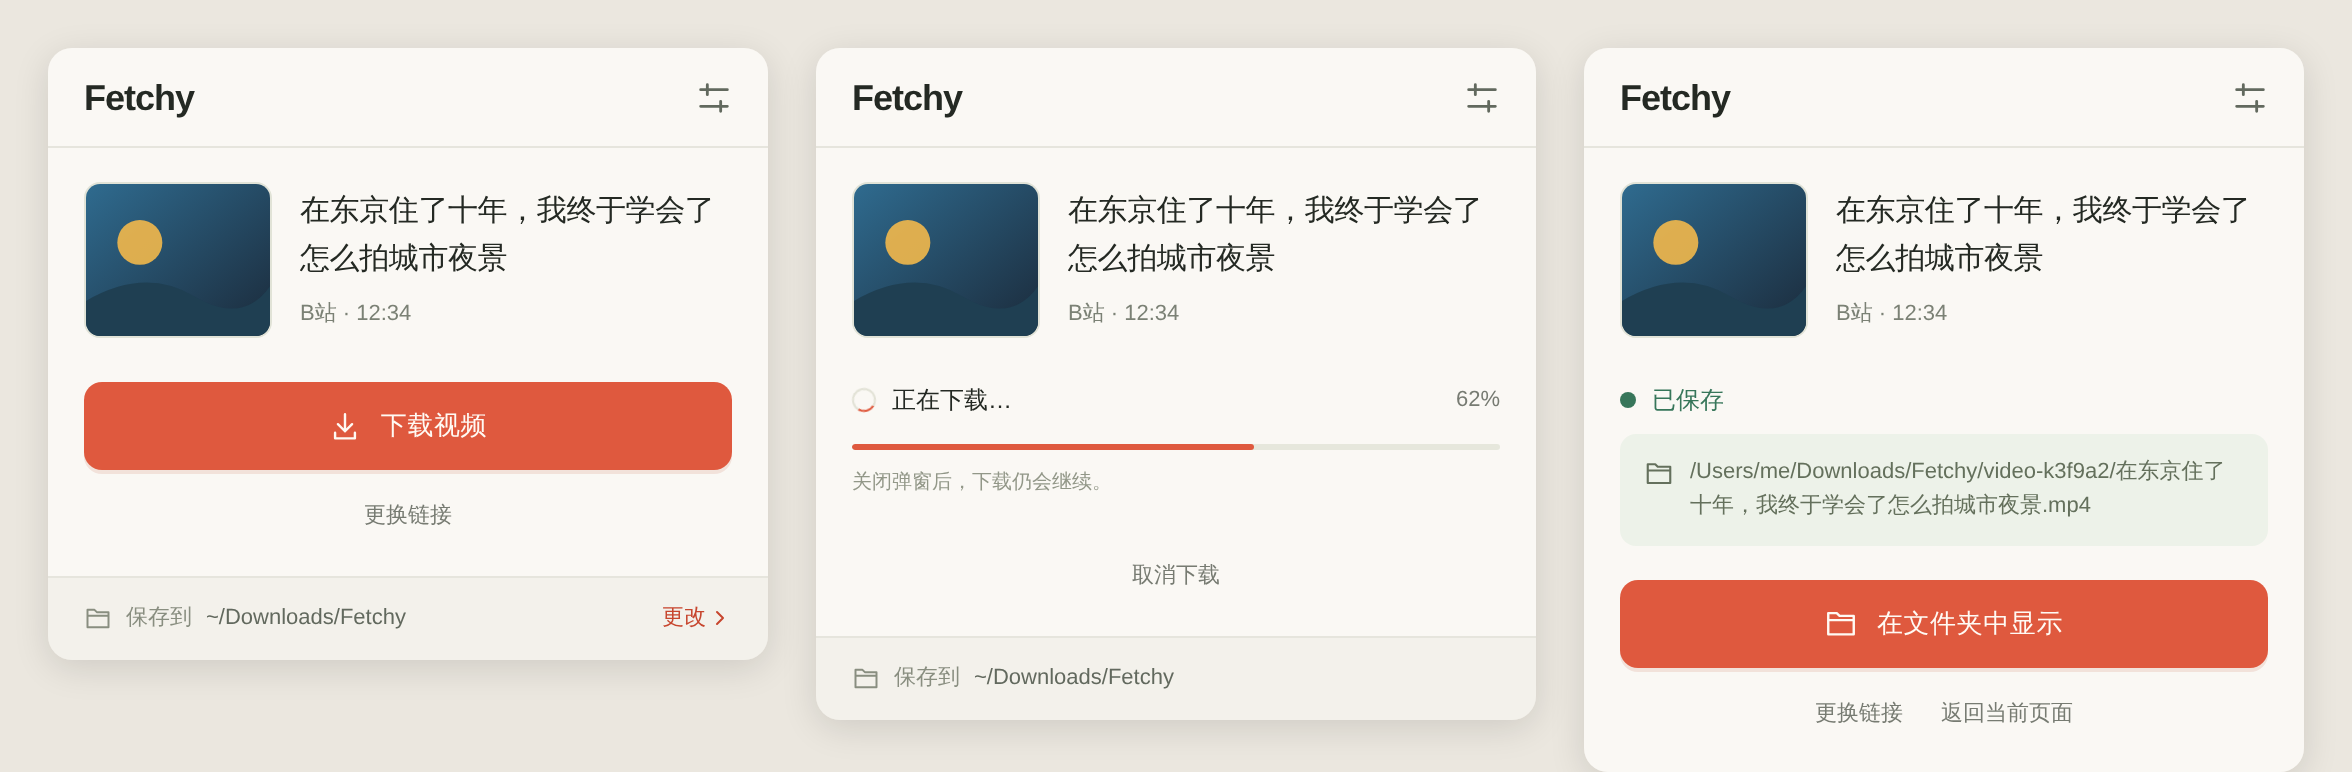
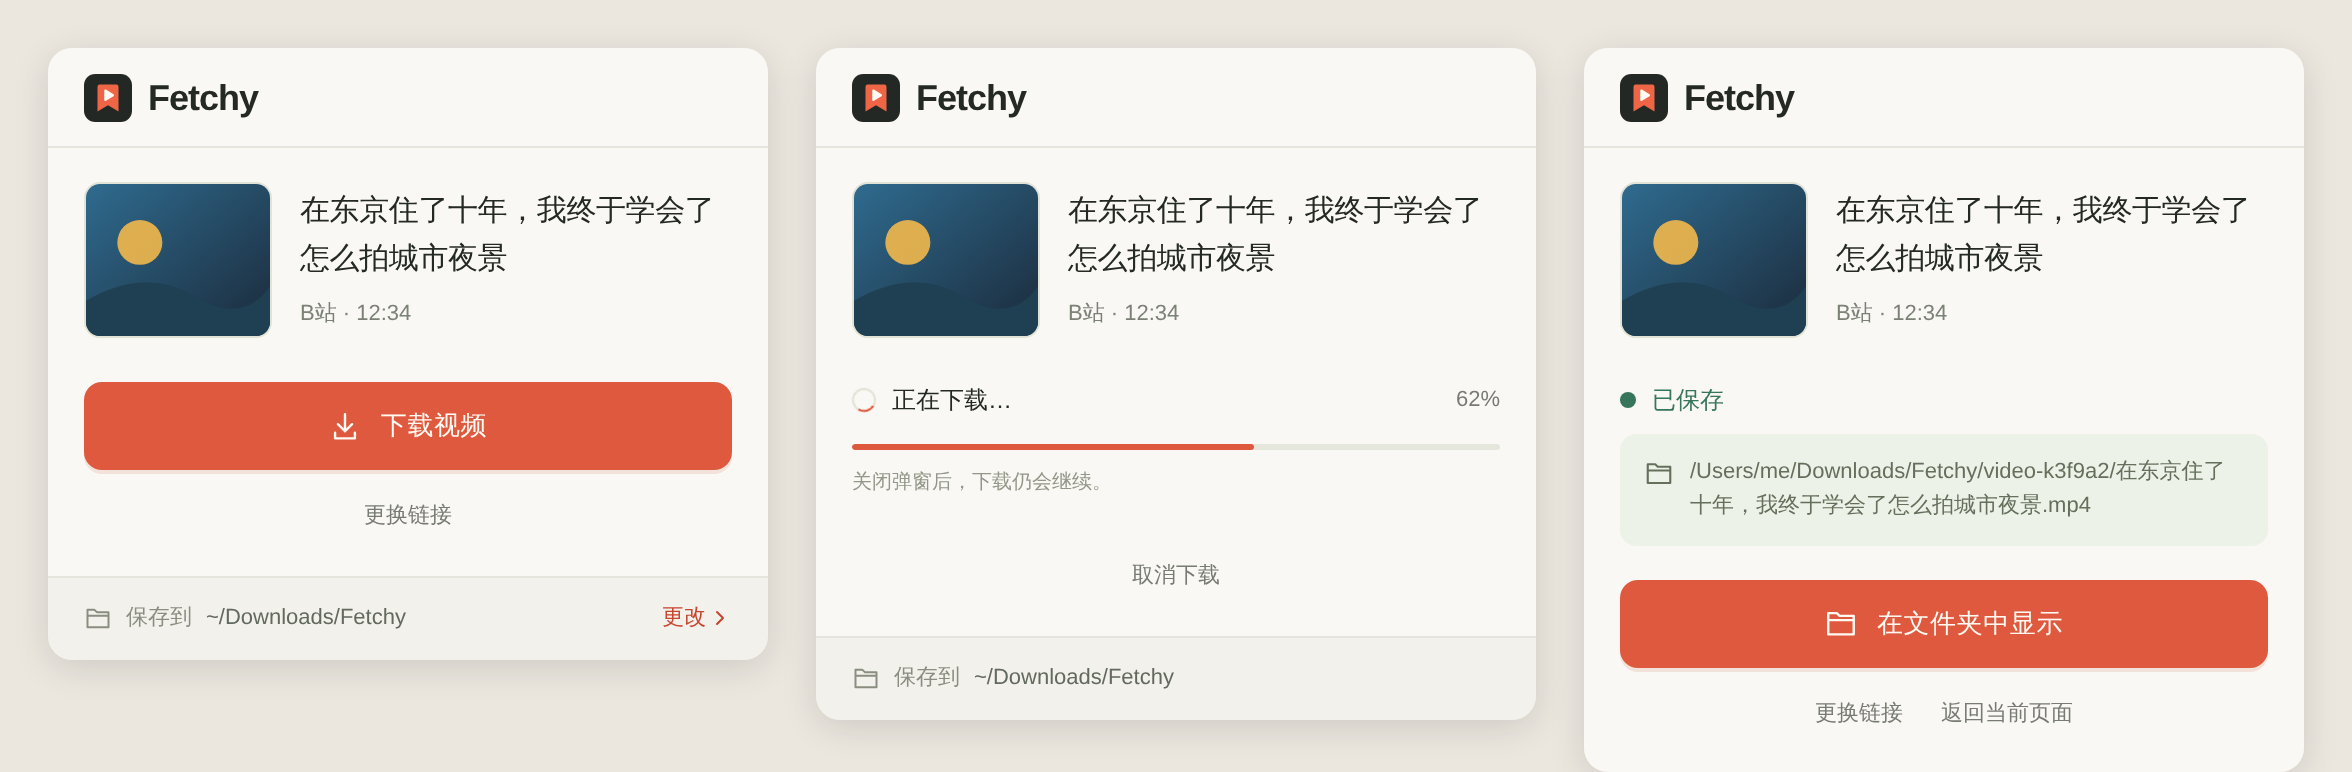
feat(extension): show brand mark and drop the settings button
The footer now switches the save folder directly, so the header gear
only duplicated it. The header shows the bookmark mark beside the
wordmark instead.

Claude-Session: https://claude.ai/code/session_01ATnmjt7XK5A6kHaesUTvsQ

Changed region(s): [[0.6828, 0.0933, 0.7759, 0.1554], [0.3414, 0.0933, 0.4345, 0.1554], [0.031, 0.0933, 0.1241, 0.1554]]

diff --git a/extension/popup.html b/extension/popup.html
@@ -10,11 +10,25 @@
 	</head>
 	<body>
 		<svg class="icon-library" xmlns="http://www.w3.org/2000/svg" aria-hidden="true">
+			<symbol id="i-logo" viewBox="0 0 128 128">
+				<rect width="128" height="128" rx="30" fill="#232825" stroke="none" />
+				<path
+					d="M42 28h44a6 6 0 0 1 6 6v66l-28-17-28 17V34a6 6 0 0 1 6-6z"
+					fill="#ef6646"
+					stroke="none"
+				/>
+				<path
+					d="M57 44l20 12.5-20 12.5z"
+					fill="#fffaf4"
+					stroke="#fffaf4"
+					stroke-width="6"
+					stroke-linejoin="round"
+				/>
+			</symbol>
 			<symbol id="i-download" viewBox="0 0 24 24">
 				<path d="M12 3v12m-5-5 5 5 5-5M5 16v4h14v-4" />
 			</symbol>
 			<symbol id="i-folder" viewBox="0 0 24 24"><path d="M3 7V5h6l2 2h10v13H3V7Zm0 3h18" /></symbol>
-			<symbol id="i-settings" viewBox="0 0 24 24"><path d="M4 7h16M4 17h16M8 4v6m8 4v6" /></symbol>
 			<symbol id="i-back" viewBox="0 0 24 24"><path d="m14 5-7 7 7 7M7 12h13" /></symbol>
 			<symbol id="i-retry" viewBox="0 0 24 24">
 				<path d="M20 10a8 8 0 1 0-1.8 7M20 4v6h-6" />
@@ -26,16 +40,10 @@
 
 		<div class="shell">
 			<header class="topbar">
-				<span class="wordmark">Fetchy</span>
-				<button
-					id="settings-button"
-					class="icon-button"
-					type="button"
-					title="目录设置"
-					aria-label="目录设置"
-				>
-					<svg aria-hidden="true"><use href="#i-settings" /></svg>
-				</button>
+				<div class="brand">
+					<svg class="brand-mark" aria-hidden="true"><use href="#i-logo" /></svg
+					><span class="wordmark">Fetchy</span>
+				</div>
 				<button id="back-button" class="text-button back-button" type="button" hidden>
 					<svg aria-hidden="true"><use href="#i-back" /></svg>返回
 				</button>

diff --git a/extension/popup.css b/extension/popup.css
@@ -109,26 +109,21 @@ svg {
 	padding: 0 10px 0 18px;
 	border-bottom: 1px solid var(--line);
 }
+.brand {
+	display: flex;
+	align-items: center;
+	gap: 8px;
+}
+.brand-mark {
+	width: 24px;
+	height: 24px;
+}
 .wordmark {
 	font-family: 'Avenir Next', 'Trebuchet MS', sans-serif;
 	font-size: 18px;
 	line-height: 1;
 	font-weight: 700;
 	letter-spacing: -0.5px;
-}
-.icon-button {
-	display: grid;
-	place-items: center;
-	background: transparent;
-	border: 1px solid transparent;
-	color: #62695e;
-	border-radius: 8px;
-	width: 34px;
-	height: 34px;
-}
-.icon-button:hover {
-	background: var(--wash);
-	color: var(--ink);
 }
 .text-button {
 	display: inline-flex;
